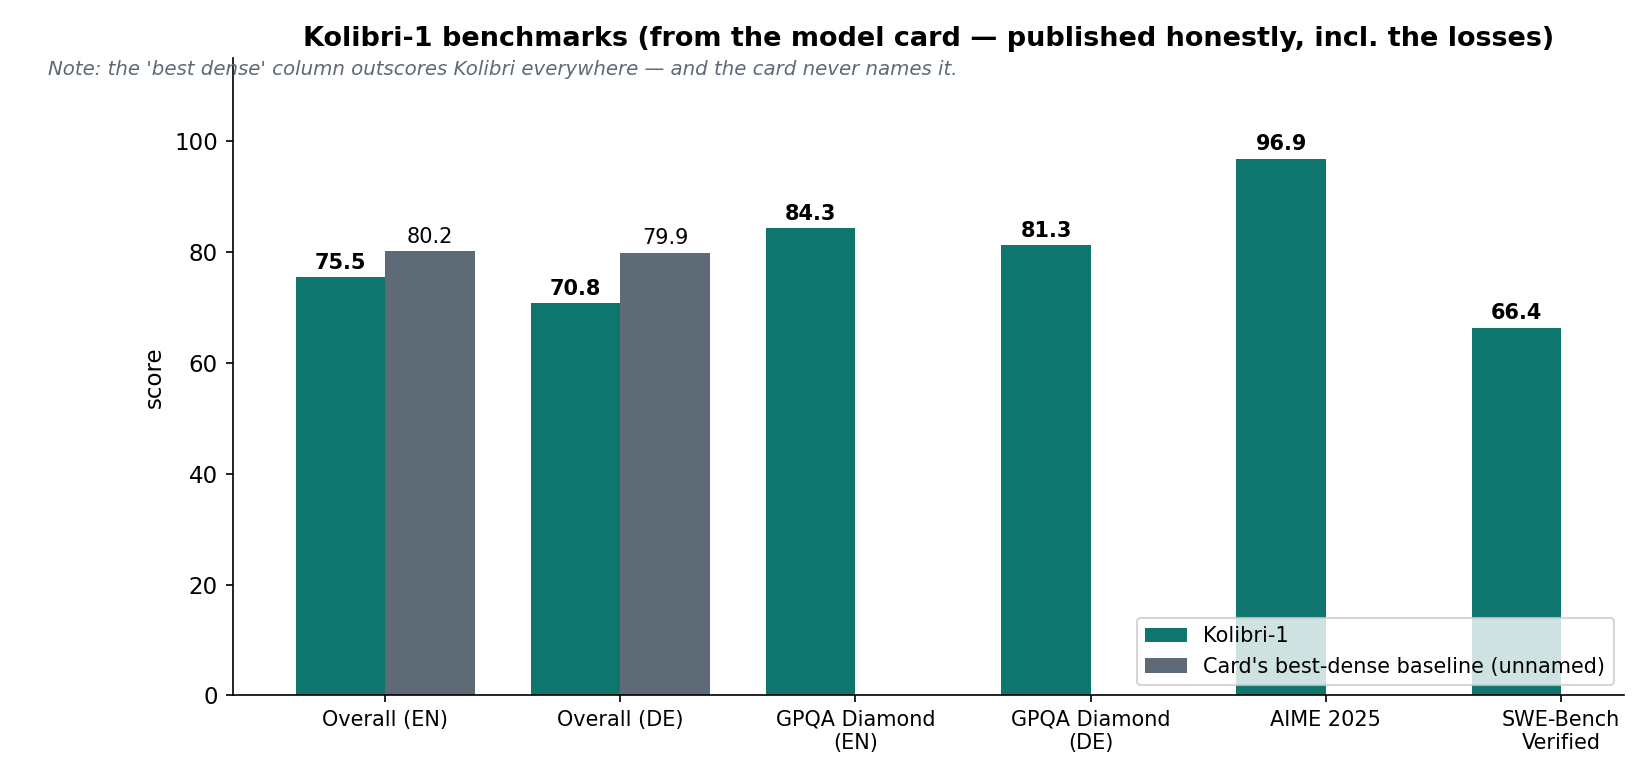
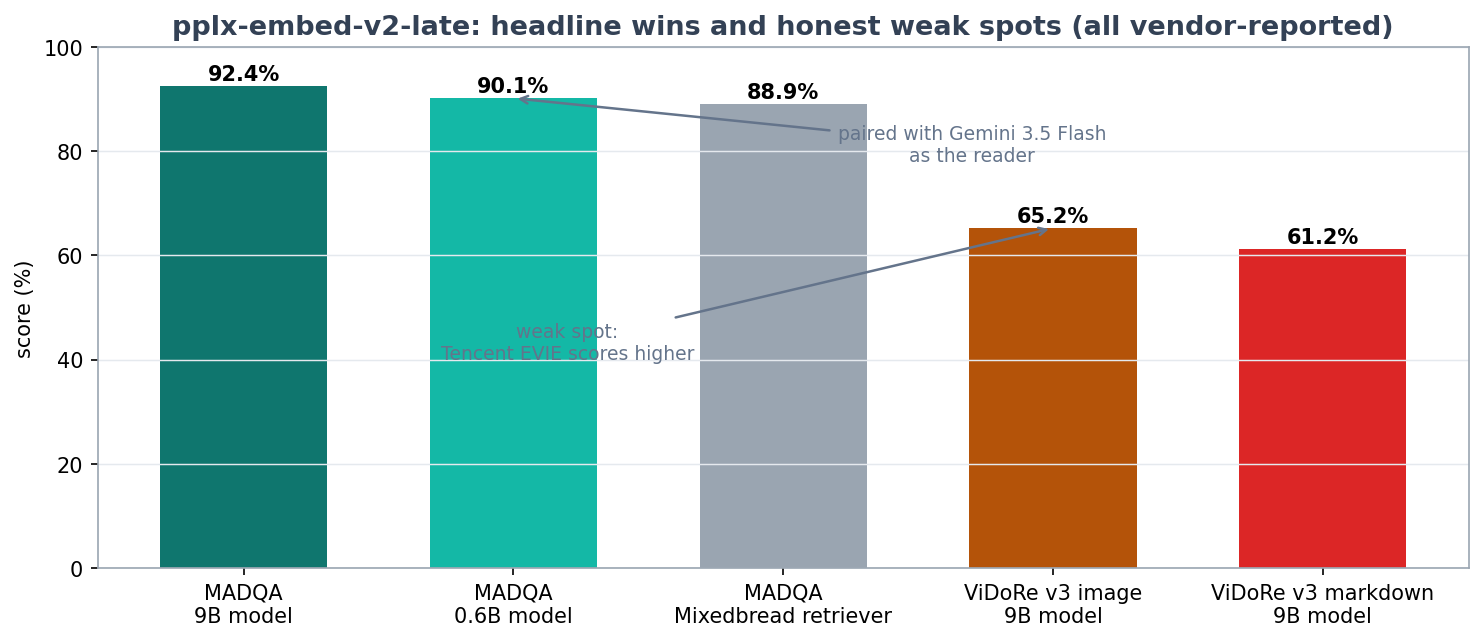
Add blog post: The 128-Vector Trick: Why Perplexity Stopped Squeezing Documents Into One Vector

diff --git a/blog/2026-10-09-the-128-vector-trick-why-perplexity-stopped-squeezing-documents-into-o.html b/blog/2026-10-09-the-128-vector-trick-why-perplexity-stopped-squeezing-documents-into-o.html
@@ -1,0 +1,102 @@
+<!doctype html>
+<html lang="en"><head><meta charset="utf-8">
+<meta name="viewport" content="width=device-width, initial-scale=1">
+<title>The 128-Vector Trick: Why Perplexity Stopped Squeezing Documents Into One Vector | Daniel Sam Pete Thiyagu</title>
+<style>
+:root{--ink:#17202a;--muted:#5e6a75;--line:#dfe5ea;--surface:#f7f9fb;--panel:#fff;
+--accent:#0f766e;--accent-dark:#134e4a;--shadow:0 18px 45px rgba(23,32,42,.08);--radius:8px}
+*{box-sizing:border-box}html{scroll-behavior:smooth}
+body{margin:0;color:var(--ink);background:var(--surface);
+font-family:Inter,ui-sans-serif,system-ui,-apple-system,BlinkMacSystemFont,"Segoe UI",sans-serif;line-height:1.6}
+a{color:var(--accent-dark);text-decoration:none}a:hover{color:var(--accent)}
+.nav{position:sticky;top:0;z-index:10;background:rgba(247,249,251,.92);
+border-bottom:1px solid rgba(223,229,234,.8);backdrop-filter:blur(18px)}
+.nav-inner{max-width:1100px;margin:0 auto;padding:14px 20px;display:flex;gap:18px;align-items:center;flex-wrap:wrap}
+.nav-inner .brand{font-weight:700;margin-right:auto}
+.nav-inner a{font-size:14px}
+.wrap{max-width:1100px;margin:0 auto;padding:28px 20px 56px}
+h1{font-size:34px;line-height:1.25;margin:8px 0 12px}
+.meta{color:var(--muted);font-size:14px;margin-bottom:20px}
+.post p,.post li{font-size:17px;line-height:1.75}
+.post h2{font-size:24px;margin:34px 0 10px}.post h3{font-size:19px;margin:26px 0 8px}
+.post img{max-width:100%;border-radius:var(--radius);box-shadow:var(--shadow);margin:18px 0 4px}
+code{background:#eef3f6;padding:1px 5px;border-radius:4px;font-size:.92em}
+pre{background:#0e2430;color:#e6f2f0;padding:14px 16px;border-radius:var(--radius);overflow:auto;font-size:14px}
+pre code{background:transparent;padding:0;color:inherit}
+blockquote{border-left:4px solid var(--accent);margin:16px 0;padding:4px 16px;color:var(--muted)}
+hr{border:none;border-top:1px solid var(--line);margin:28px 0}
+.grid{display:grid;grid-template-columns:repeat(auto-fill,minmax(320px,1fr));gap:18px}
+.card{background:var(--panel);border:1px solid var(--line);border-radius:var(--radius);
+padding:18px;box-shadow:var(--shadow)}
+.card h3{margin:4px 0 8px;font-size:18px;line-height:1.35}
+.card .d{color:var(--muted);font-size:13px}
+.card .t{display:inline-block;font-size:12px;background:#e6f4f1;color:var(--accent-dark);
+border-radius:20px;padding:2px 10px;margin-top:8px}
+.res{background:var(--panel);border:1px solid var(--line);border-radius:var(--radius);
+padding:14px 18px;margin:26px 0}
+.res h3{margin:0 0 6px;font-size:16px}
+.back{font-size:14px}
+</style>
+<script async src="https://www.googletagmanager.com/gtag/js?id=G-X4D6KVEECF"></script>
+<script>window.dataLayer=window.dataLayer||[];function gtag(){dataLayer.push(arguments);}gtag('js',new Date());gtag('config','G-X4D6KVEECF');</script></head><body>
+<nav class="nav"><div class="nav-inner">
+<a class="brand" href="/">Daniel Sam Pete Thiyagu</a>
+<a href="/#impact">Impact</a><a href="/#experience">Experience</a><a href="/blog/">Blog</a><a href="/#contact">Contact</a>
+</div></nav>
+<main class="wrap">
+<p class="back"><a href="/blog/">&larr; All posts</a></p>
+<h1>The 128-Vector Trick: Why Perplexity Stopped Squeezing Documents Into One Vector</h1>
+<div class="meta">2026-10-09 &middot; Recommendation systems / AI infrastructure (late-interaction retrieval — Perplexity pplx-embed-v2-late)</div>
+<article class="post">
+<p>On October 7, Perplexity dropped two embedding models on Hugging Face under an MIT license — and the size gap between them is the whole story. The small one, <code>pplx-embed-v2-late</code>, runs on 0.6 billion parameters and lives on edge hardware. The big one is 9 billion parameters and, paired with Gemini 3.5 Flash as the reader, scores <strong>92.4% on MADQA</strong>. Same embedding space, same index — and here's the trick nobody's talking about loudly enough: you build the index with the 9B model and <strong>query it with the 0.6B model</strong>, paying 0.6B query costs while recovering roughly half the 9B quality gap. Fifteen times fewer parameters per request, most of the quality intact.</p>
+<p>This is the late-interaction turn in retrieval. And it's the biggest architectural bet on search since dense embeddings killed BM25.</p>
+<h2>ELI5: stop summarizing, start remembering</h2>
+<p>Normal embeddings work like a librarian who reads every book and writes a one-paragraph summary on an index card. Your query gets summarized too, and you compare summaries. Fast, cheap — and lossy. The summary throws away where each fact lived, what it was next to, how it was phrased.</p>
+<p>Late interaction is a librarian with a photographic memory. She keeps every word of every book, each in its own slot. When you ask a question, she doesn't compare summaries — she takes each word of your question and hunts for its closest-matching word in each book, then adds up how good those best matches were. That sum is the MaxSim score:</p>
+<p><strong>MaxSim(query, doc) = Σ over each query token of (best doc-token match)</strong></p>
+<p>Nothing is averaged. Nothing is pre-summarized. The matching happens late — at query time, token by token — which is where "late interaction" gets its name. The cost: instead of one vector per document, you store <strong>one 128-dimensional vector per token</strong>. That's the trade, and the rest of this post is about whether it pays.</p>
+<p><img alt="Dense vs late interaction" src="assets/d1_single_vs_late.png" /></p>
+<h2>How it works: the three numbers that matter</h2>
+<p><strong>1. One vector per token, 128 dimensions each.</strong> Built on Qwen3.5 with bidirectional attention, each token of a document becomes a 128-dim vector. 128 is deliberately tiny — Perplexity notes it's 16–32x narrower than rival token vectors at 2,048–4,096 dimensions. Narrow dims keep the storage math survivable.</p>
+<p><strong>2. MaxSim scoring.</strong> Query tokens each take their max cosine similarity over all document tokens; sum them. This is why a PDF table cell containing the exact invoice number can beat a whole page of vaguely relevant prose: the strong per-token matches dominate, instead of being averaged into soup.</p>
+<p><strong>3. One shared embedding space across sizes.</strong> This is the genuinely new trick. Both models embed into the <em>same</em> 128-dim space, so a query encoded by the 0.6B model can be scored against an index built by the 9B model. The 0.6B is a distillation sibling, not a separate design — both were distilled from an internal 18B ColBERT teacher with a token-level LEAF-style objective (the 0.6B fully fine-tuned; for the 9B, the final 8 transformer layers were fully fine-tuned while the rest got LoRA).</p>
+<p>Multimodality comes free in the same space: text, images, and rendered PDF pages are all embedded as token sequences — <strong>no OCR, no chunking pipeline</strong>. A table in a PDF is kept as an image with its layout intact, not mangled by text extraction.</p>
+<p><img alt="Build with 9B, query with 0.6B" src="assets/d2_shared_space.png" /></p>
+<p>The economics are the point. Query-side encoding is what you pay for <em>on every request</em>; index-building is what you pay for <em>once</em>. Splitting the two means your serving fleet runs a model small enough for edge hardware — 594M total parameters, 240M for text — while your index carries 9B-quality signal. It's the same logic as speculative decoding from yesterday's post: spend the big model's budget where it's cheapest, the small model's where it matters.</p>
+<h2>SOTA: where this lands in October 2026</h2>
+<p><strong>The benchmark line (all Perplexity-reported, no independent verification yet, no technical report):</strong></p>
+<ul>
+<li><strong>MADQA — 92.4%</strong> with the 9B model + Gemini 3.5 Flash. MADQA is 500 questions over ~18,000 PDF pages — multi-page, document-heavy QA. The 0.6B model hits 90.1% in the same setup, vs 88.9% for the Mixedbread retriever. So the 0.6B is only 2.3 points behind its 15x-bigger sibling on the headline test.</li>
+<li><strong>Q2D-Web — 74.8% Recall@1000</strong> across ~190 million documents. This is the web-scale test, and it's arguably the more important number than MADQA.</li>
+<li><strong>BrowseComp+ — 64.0%</strong> paired with GPT-OSS-120B, 4.9 points ahead of competing ColBERT models (per AlphaSignal's writeup).</li>
+</ul>
+<p><strong>The weak spots — and Perplexity's own cards admit them:</strong></p>
+<ul>
+<li><strong>ViDoRe v3 image retrieval — 65.2%</strong>, markdown — 61.2%. "Retrieves text, images, and PDFs" does not mean uniformly strong. Tencent's EVIE scores higher on image retrieval. If your corpus is markdown-rendered docs, benchmark before you believe the headline.</li>
+<li><strong>No mixed text+image input</strong> in a single query. One modality per input — a real limitation for "find the chart that shows X" workflows.</li>
+<li><strong>One vector per token is a storage bill.</strong> The math: a 1,000-token document costs 250 KB at fp16 vs 16 KB for a dense 4096-dim vector. Int8 halves it. The 128-dim choice is doing real work here — at 4,096 dims, late interaction would be dead on arrival.</li>
+</ul>
+<p><img alt="Benchmark scores" src="assets/d3_benchmarks.png" /></p>
+<p><img alt="Storage tradeoff" src="assets/d4_storage_math.png" /></p>
+<p><strong>Context of the week:</strong> this landed one day after Google's EmbeddingGemma 2 — a 740M open <em>dense</em> multimodal embedder aimed at on-device use. The two releases frame the fork clearly: Google is betting small-and-dense for the edge, Perplexity is betting small-and-<em>fine-grained</em>, with the shared-space trick as the bridge to big-model quality. The right bet depends on whether your queries need token-level precision (invoice numbers, legal clauses, code) or just semantic nearness.</p>
+<h2>The production reality check</h2>
+<ol>
+<li><strong>Cross-model querying is the killer feature, not MADQA.</strong> The headline 92.4% is nice; the ability to run a 594M-parameter query encoder against a 9B-quality index is what changes serving budgets. If your retrieval traffic is the expensive part, this is the number to model.</li>
+<li><strong>The OCR-free pitch is real but bounded.</strong> Native image/PDF embedding preserves tables and layouts that text-extraction pipelines corrupt — genuinely valuable. But the ViDoRe numbers say the vision side is still the weaker half. Verify on your own documents.</li>
+<li><strong>Distillation lineage matters.</strong> An 18B teacher with a token-level objective, LoRA on most of the 9B — this is a carefully distilled family, not two independent models. That's <em>why</em> the shared space works. Don't expect to mix-and-match arbitrary small/large embedders and get the same effect.</li>
+<li><strong>Storage is the new latency.</strong> Late interaction moves the cost from compute to storage. At 250 KB per 1k-token doc, a 190M-document index is ~47 TB at fp16 before quantization. Fine for a hyperscaler; a budget line for everyone else.</li>
+<li><strong>MIT license, self-host only (for now).</strong> No hosted API yet — sentence-transformers ≥ 6.0.0, transformers ≥ 5.4.0, CUDA confirmed. A hosted endpoint is planned. If you want this behind an API, you're waiting or self-hosting.</li>
+</ol>
+<h2>Takeaways</h2>
+<ol>
+<li><strong>Late interaction beats single vectors where precision matters.</strong> One vector per token + MaxSim means the best-matching fact wins instead of being averaged away. Mean pooling is the enemy of exactness.</li>
+<li><strong>Build with the big model, serve with the small one.</strong> The shared embedding space splits the one-time index cost from the per-request query cost. 15x cheaper queries, ~half the quality gap recovered.</li>
+<li><strong>128 dimensions is a design decision, not a spec.</strong> Narrow token vectors are what make per-token storage affordable. The dimensionality is the product decision.</li>
+<li><strong>Multimodal retrieval without OCR is here — mostly.</strong> PDF tables and layouts survive natively, but vision retrieval still trails; Tencent EVIE and the ViDoRe weak spots are the honest footnotes.</li>
+<li><strong>This is infrastructure for agents.</strong> Every agentic loop that grounds itself in documents — RAG, tool-use over PDFs, research agents — gets better the moment retrieval stops summarizing and starts remembering.</li>
+</ol>
+<p><em>All benchmark figures are Perplexity self-reported (announced Oct 7, 2026 via the company blog and forum); the technical report is not yet published and no independent verification exists at the time of writing. Treat the 92.4% MADQA headline as a signal, and the shared-space / storage math as the substance.</em></p>
+</article>
+<div class="res"><h3>Companion notebook</h3><p><a href="assets/late_interaction_retrieval.ipynb">late_interaction_retrieval.ipynb</a> — the runnable tutorial for this post (download, or open it in Colab/Jupyter).</p></div>
+<p class="back"><a href="/blog/">&larr; All posts</a></p>
+</main></body></html>

diff --git a/blog/index.html b/blog/index.html
@@ -48,6 +48,7 @@ padding:14px 18px;margin:26px 0}
 <h1>Blog</h1>
 <p class="meta">Daily posts on AI infrastructure, LLMs, GenAI, agents, recommendation systems, and ML engineering &mdash; with diagrams and runnable notebooks.</p>
 <div class="grid">
+<div class="card"><div class="d">2026-10-09</div><h3><a href="2026-10-09-the-128-vector-trick-why-perplexity-stopped-squeezing-documents-into-o.html">The 128-Vector Trick: Why Perplexity Stopped Squeezing Documents Into One Vector</a></h3><span class="t">Recommendation systems / AI infrastructure (late-interaction retrieval — Perplexity pplx-embed-v2-late)</span></div>
 <div class="card"><div class="d">2026-10-08</div><h3><a href="2026-10-08-your-llm-types-one-token-at-a-time-it-doesn-t-have-to.html">Your LLM Types One Token at a Time. It Doesn't Have To.</a></h3><span class="t">LLM systems / inference (speculative decoding)</span></div>
 <div class="card"><div class="d">2026-10-07</div><h3><a href="2026-10-07-the-model-wasn-t-stupid-it-was-blind-how-a-four-sentence-prompt-took-c.html">The Model Wasn't Stupid. It Was Blind: How a Four-Sentence Prompt Took Claude to a Perfect 100 on ARC-AGI-3</a></h3><span class="t">Agents / benchmarks (VISTA visual harness — MIT, ARC-AGI-3)</span></div>
 <div class="card"><div class="d">2026-10-06</div><h3><a href="2026-10-06-501b-stored-23b-awake-reflection-s-beam-and-the-efficiency-turn-in-the.html">501B Stored, 23B Awake: Reflection's Beam and the Efficiency Turn in the Open-Weight Race</a></h3><span class="t">Tech news / ML architectures (Reflection AI Beam open-weight MoE)</span></div>
